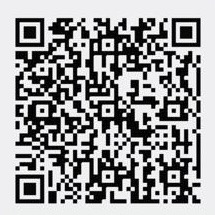
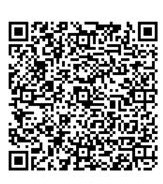
Update Pix Key Text and QR Code image

diff --git a/components/Registry.tsx b/components/Registry.tsx
@@ -22,7 +22,7 @@ const IconMap: Record<string, LucideIcon> = {
   Monitor: Monitor,
 };
 
-const PIX_KEY = '00020126580014BR.GOV.BCB.PIX01364c006e4f-fa2c-4d8c-abf9-7664570f4e5e5204000053039865802BR5919Karla Gentil Vieira6009SAO PAULO62140510Roo0HwCB1H6304B9E0';
+const PIX_KEY = '00020101021126850014br.gov.bcb.pix01362142871b-6da9-499f-a6fb-bc04f3608f1f0223Casamento Karla e Davi 5204000053039865802BR5919Karla Gentil Vieira6009SAO PAULO61080131010062230519CasamentoKarlaeDavi6304EA4C';
 const PIX_BENEFICIARY = 'Karla Gentil Vieira';
 
 type ModalStep = 'choose' | 'pix';
